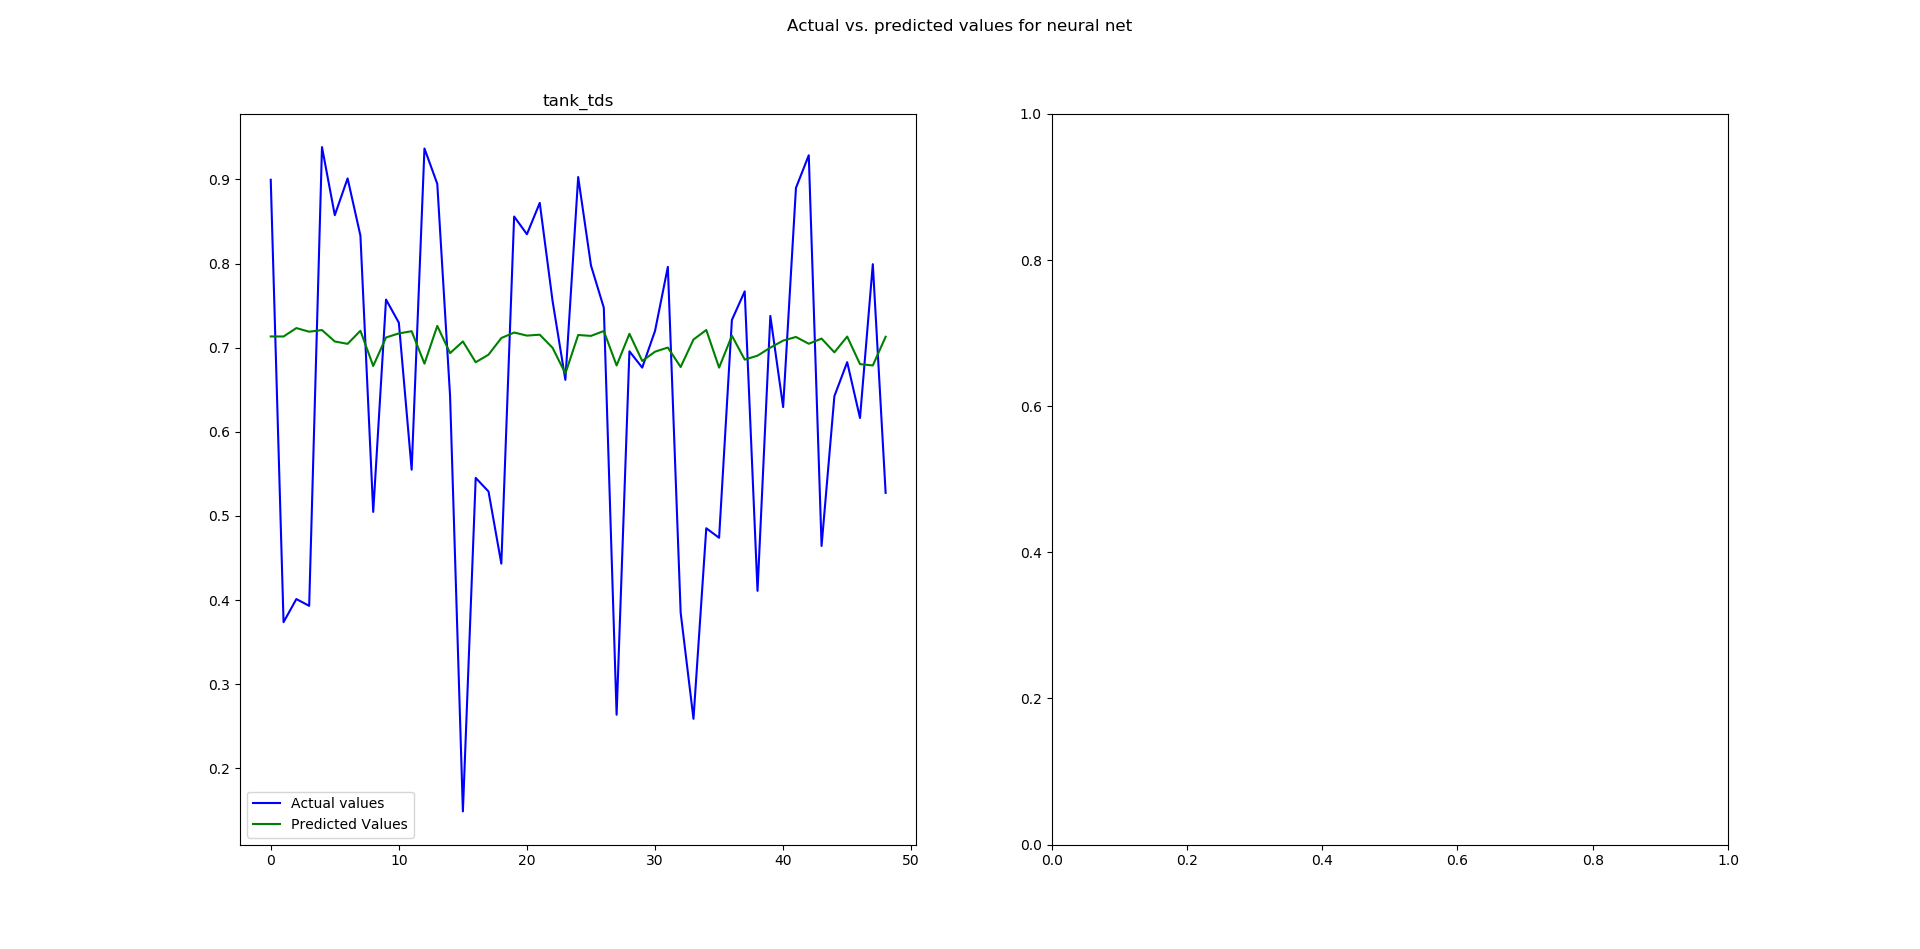
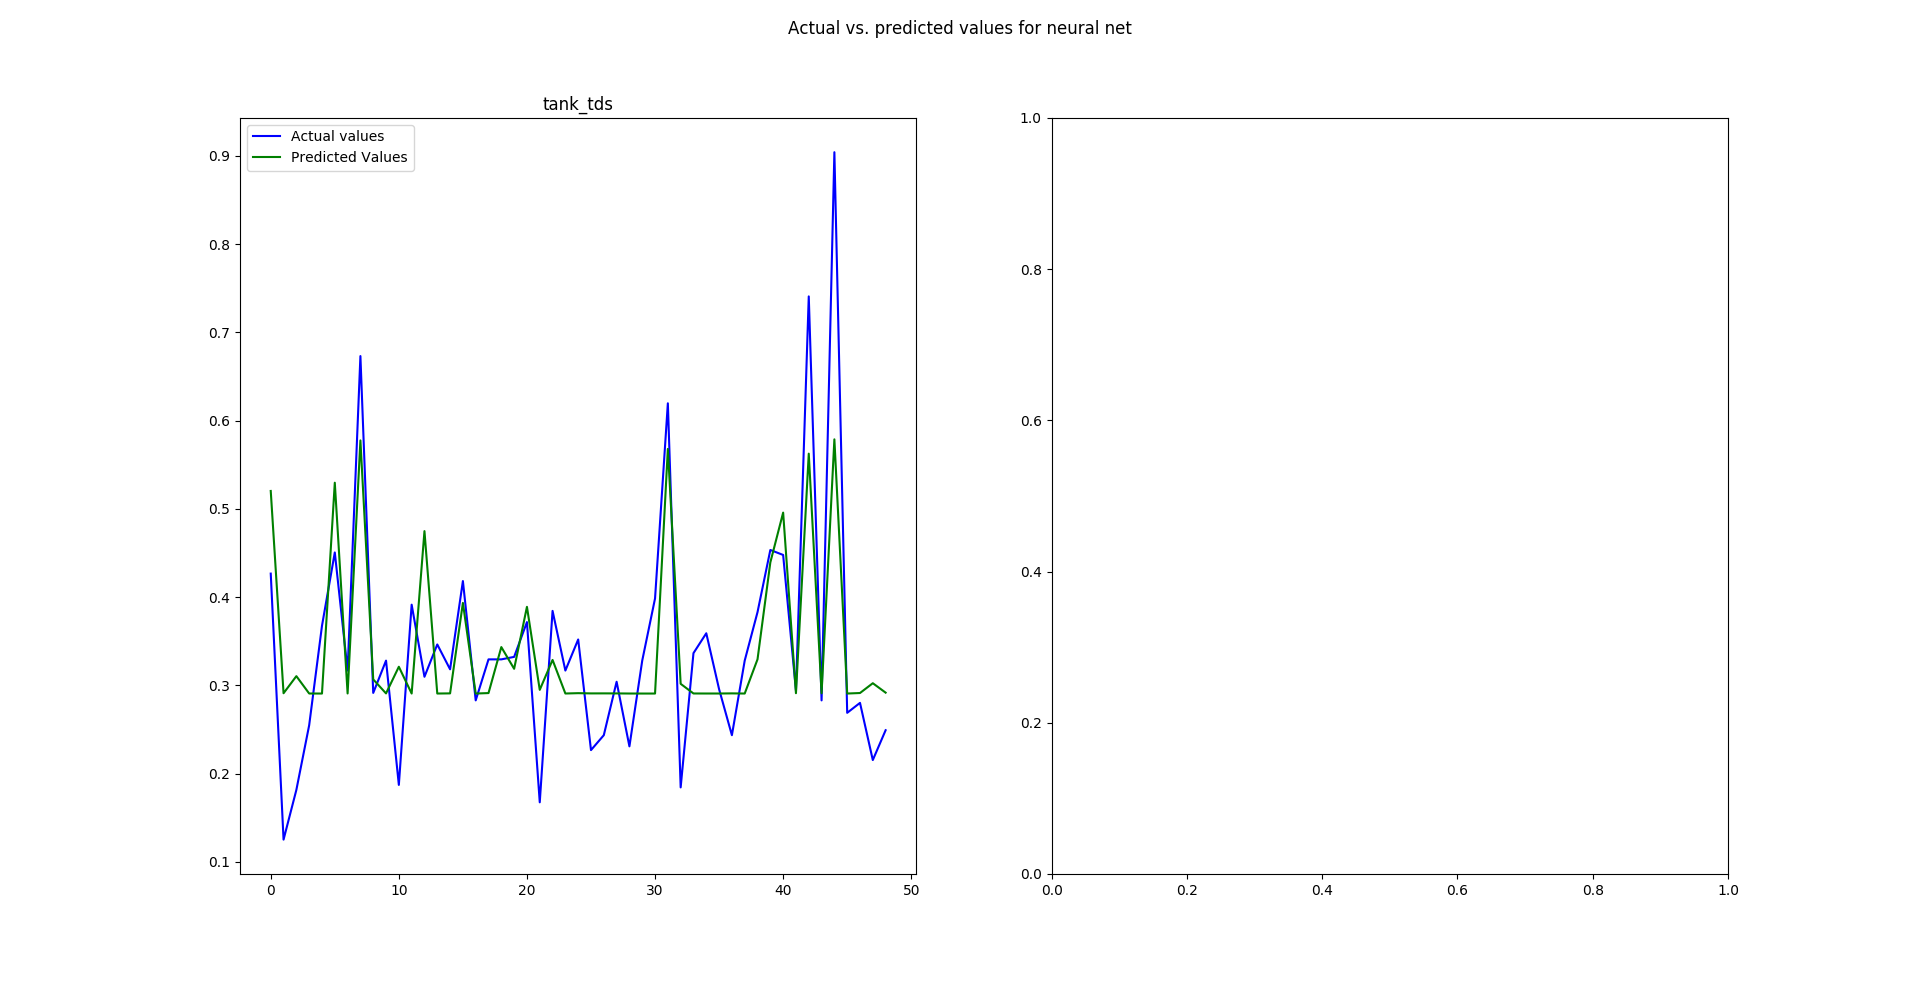
Temp commit of RNN

diff --git a/neuralnet/rrun.py b/neuralnet/rrun.py
@@ -1,0 +1,91 @@
+from neuralnet.splitter import Splitter
+from neuralnet.sequential import SequentialNeuralNet
+import pandas as pd
+from preprocessing.utils import printv
+import matplotlib.pyplot as plt
+from neuralnet.rnnmodels import make_rnn_model
+import math
+from config import GRAPH_PATH, Column
+import os
+
+
+DEFAULT_INPUT_COLS = [
+    Column.TIME, Column.INLET_FLOWRATE,
+    Column.INLET_TDS
+]
+
+DEFAULT_OUTPUT_COLS = [
+    Column.PERM_FLOWRATE,
+    Column.PERM_TDS,
+    Column.MEMBR_REJ_FLOWRATE,
+    Column.MEMBR_REJ_TDS,
+    Column.TANK_TDS
+]
+TS_SIZE = 0.15
+
+DEFAULT_MODEL = "BaselineModel"
+
+
+class SequentialNeuralNetRunner(object):
+    def __init__(self, args, save=False, filename=None, show_graph=True):
+        self.args = args
+        self.model_name, self.model = args.nnmodel, None
+        self.save, self.filename = save, filename
+        self.show_graph = show_graph
+
+    def _format_data(self, df):
+        """ Needs already cleaned up data """
+        printv("Splitting data into train and test")
+        # Split into training and test data.
+        tr, ts = Splitter(TS_SIZE, seq=True).split(df)
+        # Split columns into input and output
+        tr, ts = self.model.io_split(tr), self.model.io_split(ts)
+        printv("Data split with element count: (train, test) = (%d, %d)"
+               % (len(tr.input), len(ts.input)))
+        return tr, ts
+
+    def run(self, df):
+        # Make the neural net model
+        if not self.model_name:
+            self.model_name = DEFAULT_MODEL
+        self.model = make_rnn_model(self.model_name)
+        # Split data
+        tr, ts = self._format_data(df)
+        with SequentialNeuralNet(self.model, self.args.modelfile) as net:
+            net.train(tr)
+            predicted = pd.DataFrame(net.predict(ts.input),
+                                     columns=self.model.output_cols)
+        predicted = self.model.post_process(ts, predicted)
+        printv("Predicted data like:\n", predicted[:5])
+        if self.show_graph:
+            self.graph(ts, predicted)
+
+    def graph(self, ts_data, predicted):
+        """ Plot the predicted data vs. original data """
+        printv("Graphing predicted values")
+        fig, ax = plt.subplots(nrows=int(math.ceil(len(predicted.columns) / 2)),
+                               ncols=2)
+        fig.suptitle("Actual vs. predicted values for neural net")
+        for i, ax in enumerate(ax.reshape(-1)):
+            if i == len(predicted.columns): break
+            col_name = predicted.columns[i]
+            self._graph_column(col_name, ax, ts_data.output[:, i],
+                               predicted.loc[:, col_name])
+        plt.show()
+        # Prompt to save
+        save = self.args.graphfile if self.args.graphfile\
+            else input("Save Graph (Enter filename to save, blank to skip)?: ")
+        if save:
+            self._save_graph(fig, save)
+
+    def _save_graph(self, fig, filename):
+        if not filename.endswith(".png"):
+            filename += ".png"
+        printv("Saving graph to: " + filename)
+        fig.savefig(os.path.join(GRAPH_PATH, filename))
+
+    def _graph_column(self, col_name, ax, actual, predicted):
+        ax.plot(actual, color='b')
+        ax.plot(predicted, color='g')
+        ax.set_title(col_name)
+        ax.legend(["Actual values", "Predicted Values"])

diff --git a/neuralnet/rnnmodels.py b/neuralnet/rnnmodels.py
@@ -1,0 +1,30 @@
+from config import Column
+from keras.layers import Dense, LSTM
+from collections import namedtuple
+from neuralnet.models import NetModel
+
+DataIO = namedtuple('DataIO', 'input output')
+
+class RnnBaselineModel(NetModel):
+    INPUT_COLS = [
+        Column.TIME, Column.INLET_FLOWRATE,
+        Column.INLET_TDS
+    ]
+    OUTPUT_COLS = [
+        Column.TANK_TDS,
+    ]
+
+    def __init__(self, input_cols=INPUT_COLS,
+                 output_cols=OUTPUT_COLS):
+        super().__init__(input_cols, output_cols)
+
+    def make_net(self, model):
+        self._add_input_layer(model)
+        # Adding the second hidden layer
+        model.add(LSTM(output_dim=6, init='uniform',
+                        activation='relu'))
+        self._add_output_layer(model)
+        model = Sequential()
+        model.add(LSTM(50, input_shape=(train_X.shape[1], train_X.shape[2])))
+        model.add(Dense(1))
+        model.compile(loss='mae', optimizer='adam')
